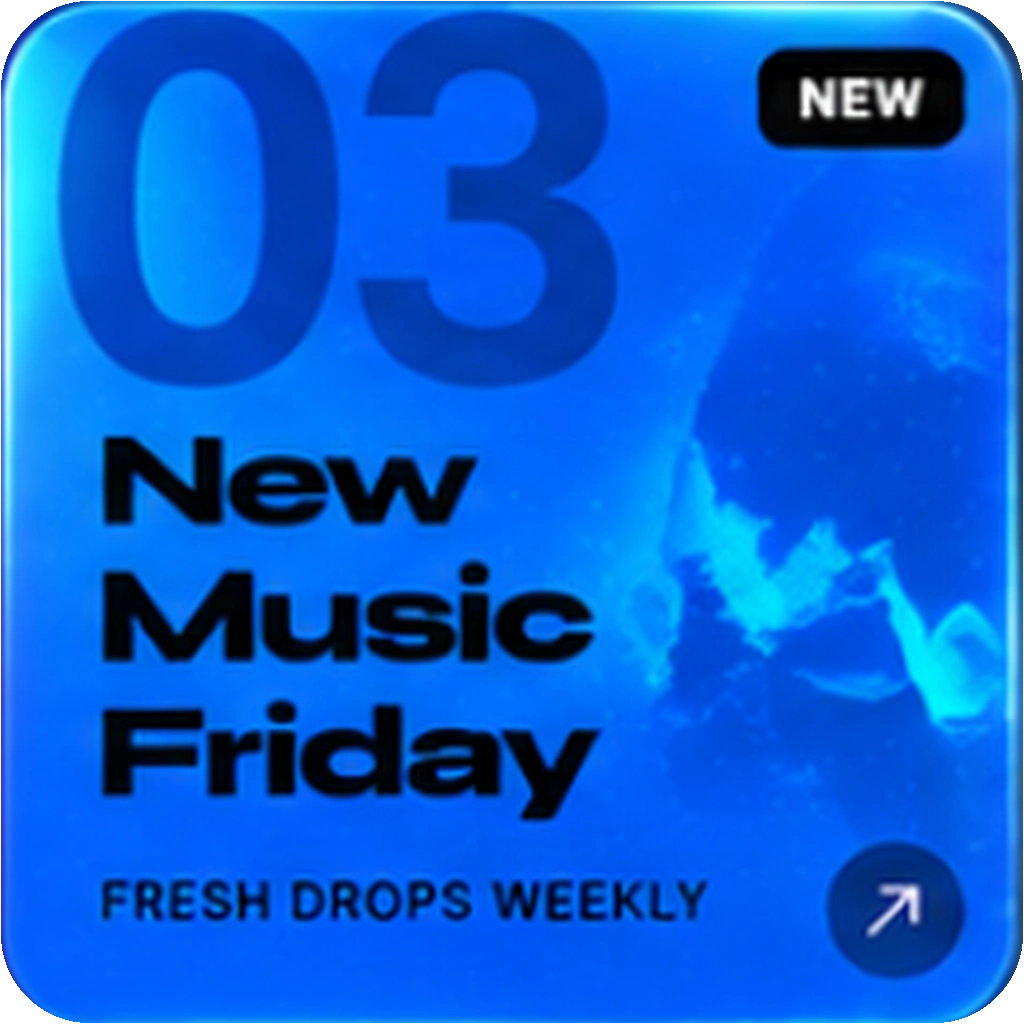
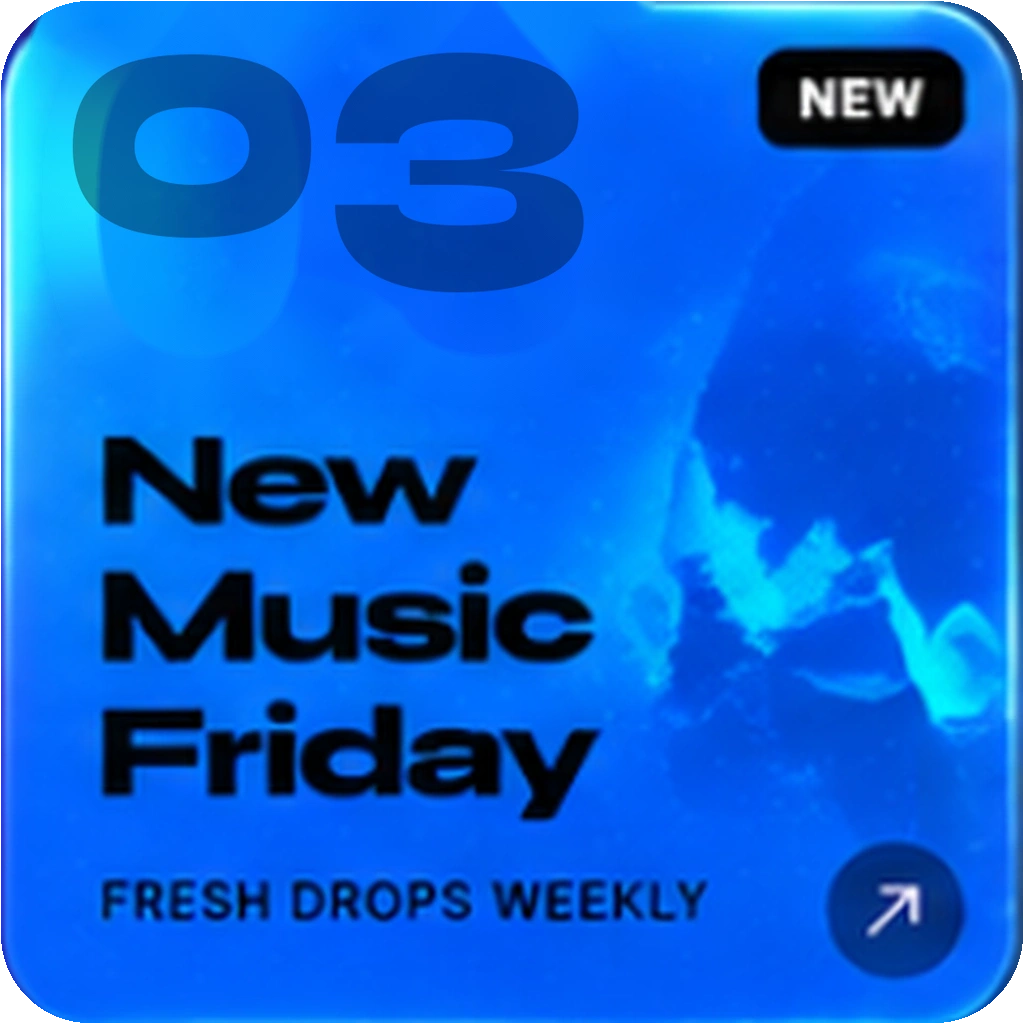
Update vibe card assets

Changed region(s): [[0.0312, 0.0, 0.625, 0.4062], [0.0, 0.0312, 0.0312, 0.0625]]

diff --git a/components/ui/IntroScreen.tsx b/components/ui/IntroScreen.tsx
@@ -418,7 +418,16 @@ function CreatorCollectionCard({
           />
 
           {/* Large background number */}
-          <span className="absolute top-[-20px] left-[0px] text-[120px] font-black text-[#d4af37] opacity-[0.08] tracking-tighter leading-none pointer-events-none select-none">
+          <span 
+            className="absolute top-[-20px] left-[0px] text-[120px] font-black text-[#d4af37] opacity-[0.08] leading-none pointer-events-none select-none"
+            style={{ 
+              fontFamily: "'Syne', sans-serif",
+              display: 'inline-block',
+              transform: 'scaleX(1.45)',
+              transformOrigin: 'left top',
+              letterSpacing: '0.02em',
+            }}
+          >
             {vibe.number}
           </span>
 

diff --git a/components/ui/ChangeVibeOverlay.tsx b/components/ui/ChangeVibeOverlay.tsx
@@ -147,7 +147,15 @@ const ChangeVibeCard = memo(function ChangeVibeCard({
           />
 
           {/* Large background number */}
-          <span className="absolute top-[-16px] left-[-4px] text-[96px] font-black text-black opacity-[0.35] tracking-tighter leading-none pointer-events-none select-none">
+          <span 
+            className="absolute top-[-16px] left-[-4px] text-[96px] font-black text-black opacity-[0.35] leading-none pointer-events-none select-none"
+            style={{ 
+              fontFamily: "'Syne', sans-serif",
+              display: 'inline-block',
+              transform: 'scaleX(1.4)',
+              transformOrigin: 'left top',
+            }}
+          >
             {vibe.number}
           </span>
 
